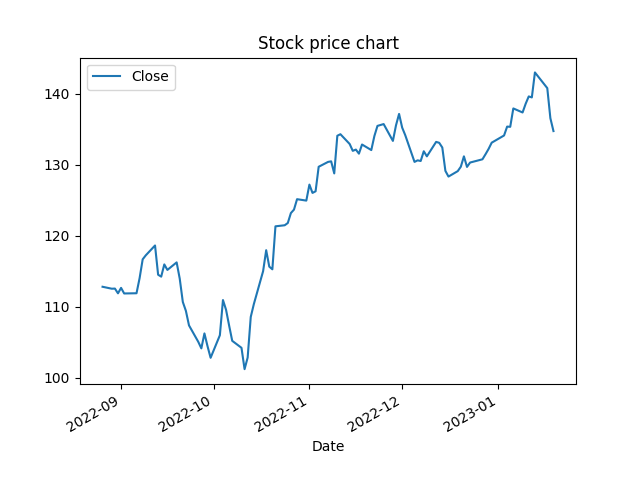
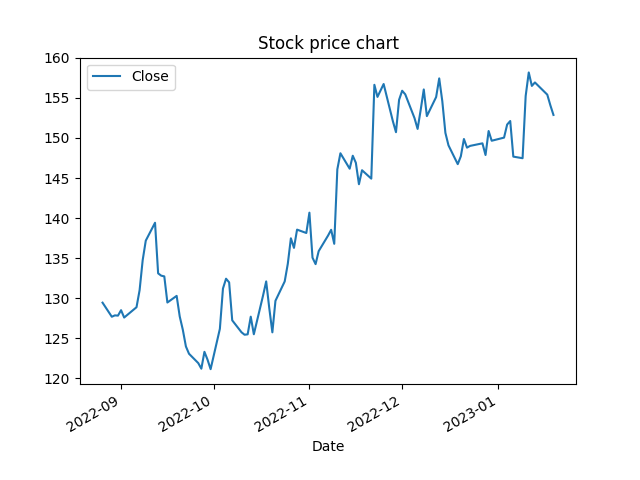
!

diff --git a/templates/result.html b/templates/result.html
@@ -8,9 +8,7 @@
 <body>
 {% block content %}
  <div class="jumbotron text-center">
-        <p>Third party libraries, such as maplotlib and yfinance does not work in Render environment.
-            I will try to fix on Friday.
-        As an excuse, downloading stock price and drawing chart works in the local environment.</p>
+        <p>Search Result</p>
     </div>
 
 <div class="container">
@@ -37,7 +35,7 @@
     <div class="col-sm-6">
 
 
-               <img src='{% static "myapp/excuse.png" %}' width="400px" >
+               <img src='{% static "chart.png" %}' width="400px" >
     </div>
 </div>
 

diff --git a/myapp/views.py b/myapp/views.py
@@ -1,3 +1,4 @@
+import folium as folium
 from django.contrib.auth.forms import UserCreationForm
 from django.shortcuts import render
 import datetime
@@ -104,8 +105,8 @@ def assignment(request):
 
 def result(request):
     from myapp.models import Stock
-    # import yfinance as yf
-    # import matplotlib.pyplot as plt
+    import yfinance as yf
+    import matplotlib.pyplot as plt
 
     data = dict()
     ticker_list = Stock.objects.all()
@@ -118,20 +119,27 @@ def result(request):
         data['name'] = found.name
         data['sector'] = found.sector
         data['country'] = found.country
-        #num_shares = yf.Ticker(query).shares.iloc[-1, 0]
-        #ohlc = yf.Ticker(query).history(period='100d')
-        #data['market_cap'] = round(num_shares * ohlc.Close[-1])
-        #data['open'] = round(ohlc.Open[-1],2)
-        #data['high'] = round(ohlc.High[-1],2)
-        #data['low'] = round(ohlc.Low[-1],2)
-        #data['close'] = round(ohlc.Close[-1],2)
-        #plt.clf()
-        #ohlc.Close.plot(kind='line',
-        #                title='Stock price chart',
-        #                legend=True)
-        #plt.savefig(r'C:\Users\Shoki\PycharmProjects\djangoProject\mproject2\static\chart.png')
-        #plt.savefig('/static/chart.png')
+        num_shares = yf.Ticker(query).shares.iloc[-1, 0]
+        ohlc = yf.Ticker(query).history(period='100d')
+        data['market_cap'] = round(num_shares * ohlc.Close[-1])
+        data['open'] = round(ohlc.Open[-1],2)
+        data['high'] = round(ohlc.High[-1],2)
+        data['low'] = round(ohlc.Low[-1],2)
+        data['close'] = round(ohlc.Close[-1],2)
+        plt.clf()
+        ohlc.Close.plot(kind='line',
+                        title='Stock price chart',
+                        legend=True)
+        try:
+            plt.savefig('/static/chart.png')
+        except:
+            try:
+                plt.savefig(r'C:\Users\Shoki\PycharmProjects\djangoProject\mproject2\static\chart.png')
+            except:
+                pass
+
         user = request.user
+
         if user.is_authenticated:
             account_holder = AccountHolder.objects.get(user=user)
             account_holder.stocks_visited.add(Stock.objects.get(tick=query))
@@ -158,3 +166,10 @@ def register_new_user(request):
         form = UserCreationForm()
         context['form'] = form
         return render(request, "registration/register.html", context=context)
+
+def map(request):
+    m = folium.Map()
+    m = m._repr_html_
+    data = dict()
+    data['m'] = m
+    return render(request,"map.html",context=data)

diff --git a/mproject2/urls.py b/mproject2/urls.py
@@ -32,6 +32,7 @@ urlpatterns = [
     path("result", views.result, name="result"),
     path("notfound", views.result, name="notfound"),
     path('register',views.register_new_user,name="register_user"),
+    path('map',views.map,name='map'),
 
 
 ]
